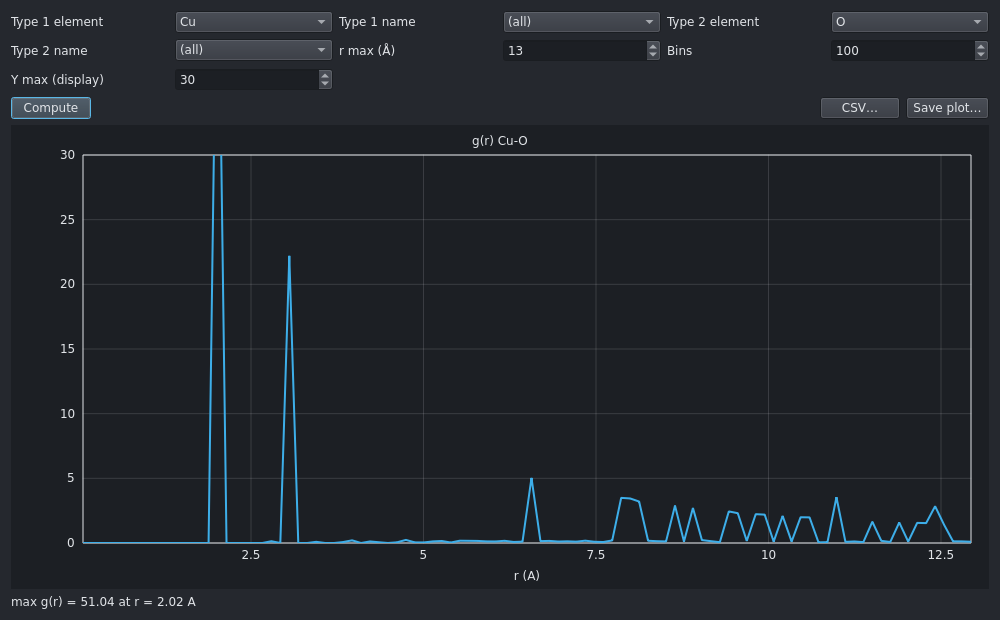
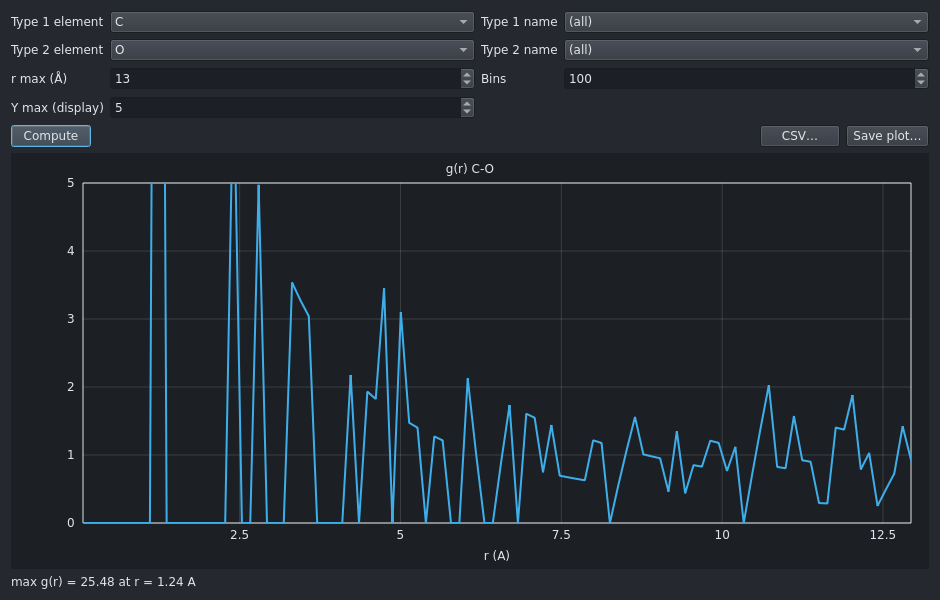
Make the test suite pass on CI: Python 3.9 and slow runners; update the README
CI failed on the first push to GitHub.

- Five tests used zip(strict=True), which needs Python 3.10; the matrix includes 3.9.
  They now check the lengths explicitly.
- The new end-to-end tests waited a fixed number of polls and clicked dialogs as soon as
  they appeared. On a loaded machine a dialog was still being laid out, the click was
  lost and the wait ran out (reproduced by pinning the suite to four cores). Waits are
  now wall-clock deadlines, screens are waited on until mounted, and closing a report
  retries the click. The suite passes pinned to two cores with eight workers.
- README: CRYSTAL23 and Find Symmetry, Check Structure and the other guard rails, the
  classic menu's appended options, the optional extras, redo and dihedral measuring, and
  current screenshots. The supported Python versions and the CI workflow are unchanged.

diff --git a/tests/test_workflows_e2e.py b/tests/test_workflows_e2e.py
@@ -15,6 +15,7 @@ from __future__ import annotations
 import asyncio
 import shutil
 import subprocess
+import time
 from pathlib import Path
 from types import SimpleNamespace
 from unittest import mock
@@ -136,16 +137,27 @@ def classic_form(engine: str, outdir, **changed) -> list:
 # ---- terminal viewer driver ---------------------------------------------------------------
 
 
-async def wait_for(pilot, cond, what, tries=400):
-    for _ in range(tries):
+WAIT_SECONDS = 180  # generous: shared CI runners are several times slower than a desktop
+
+
+async def wait_for(pilot, cond, what, seconds=WAIT_SECONDS):
+    """Poll ``cond`` until it holds. The limit is wall-clock time, not a number of polls,
+    so a slow machine gets the same chance as a fast one."""
+    deadline = time.monotonic() + seconds
+    while time.monotonic() < deadline:
         await pilot.pause(0.05)
         if cond():
             return
-    raise AssertionError(f"timed out waiting for {what}")
+    raise AssertionError(f"timed out after {seconds} s waiting for {what}")
 
 
 async def on_screen(pilot, app, cls):
-    await wait_for(pilot, lambda: isinstance(app.screen, cls), cls.__name__)
+    """The screen of type ``cls`` once it is on top and has finished mounting, so that a
+    click sent next lands on a laid-out widget."""
+    await wait_for(pilot, lambda: isinstance(app.screen, cls) and app.screen.is_mounted,
+                   cls.__name__)
+    await pilot.pause()
+    await pilot.pause()
     return app.screen
 
 
@@ -157,9 +169,21 @@ async def read_info(pilot, app) -> str:
     """The text of the report on screen, then OK."""
     modal = await on_screen(pilot, app, InfoModal)
     text = modal.query_one("#info-text", TextArea).text
-    await pilot.click("#info-ok")
-    await wait_for(pilot, lambda: not isinstance(app.screen, InfoModal), "report to close")
+    await close_screen(pilot, app, modal, "#info-ok")
     return text
+
+
+async def close_screen(pilot, app, screen, button: str) -> None:
+    """Click ``button`` until ``screen`` is gone. A click sent while the screen is still
+    being laid out can be lost on a loaded machine, so it is repeated."""
+    deadline = time.monotonic() + WAIT_SECONDS
+    while app.screen is screen and time.monotonic() < deadline:
+        await pilot.click(button)
+        for _ in range(20):
+            await pilot.pause(0.05)
+            if app.screen is not screen:
+                return
+    assert app.screen is not screen, f"{type(screen).__name__} did not close"
 
 
 async def save_as(pilot, app, path) -> None:

diff --git a/tests/test_insert_sorbates.py b/tests/test_insert_sorbates.py
@@ -116,7 +116,7 @@ def test_seed_is_reproducible():
     mol = framework(pw.PBC(20, 20, 20, 90, 90, 90))
     a = pw.insert_sorbates(mol, "h2o_dc97", 5, seed=7)
     b = pw.insert_sorbates(mol, "h2o_dc97", 5, seed=7)
-    assert all(np.allclose(x, y) for x, y in zip(a, b, strict=True))
+    assert len(a) == len(b) and all(np.allclose(x, y) for x, y in zip(a, b))
 
 
 def test_requires_cell():
@@ -309,7 +309,7 @@ def test_model_name_and_object_are_equivalent():
     mol = framework(pw.PBC(20, 20, 20, 90, 90, 90))
     a = pw.insert_sorbates(mol, "h2o_dc97", 4, seed=28)
     b = pw.insert_sorbates(mol, pw.SORBATE_MODELS["h2o_dc97"], 4, seed=28)
-    assert all(np.allclose(x, y) for x, y in zip(a, b, strict=True))
+    assert len(a) == len(b) and all(np.allclose(x, y) for x, y in zip(a, b))
 
 
 def test_input_molecule_is_not_modified():
@@ -317,7 +317,8 @@ def test_input_molecule_is_not_modified():
     before = [a.x.copy() for a in mol.atoms]
     pw.insert_sorbates(mol, "h2o_dc97", 5, seed=29)
     assert len(mol.atoms) == len(before)
-    assert all(np.array_equal(a.x, b) for a, b in zip(mol.atoms, before, strict=True))
+    assert len(mol.atoms) == len(before)
+    assert all(np.array_equal(a.x, b) for a, b in zip(mol.atoms, before))
 
 
 def test_centers_are_uniform_in_an_empty_cell():
@@ -381,7 +382,7 @@ def test_template_packs_like_the_built_in_model(tmp_path):
     mol = framework(pw.PBC(20, 20, 20, 90, 90, 90))
     a = pw.insert_sorbates(mol, t, 4, seed=33)
     b = pw.insert_sorbates(mol, model, 4, seed=33)
-    assert all(np.allclose(x, y, atol=1e-5) for x, y in zip(a, b, strict=True))
+    assert len(a) == len(b) and all(np.allclose(x, y, atol=1e-5) for x, y in zip(a, b))
 
 
 # ---- formatting and the MPMC file -----------------------------------------------------

diff --git a/tests/test_crystal.py b/tests/test_crystal.py
@@ -13,6 +13,7 @@ from __future__ import annotations
 
 import asyncio
 import io
+import time
 from pathlib import Path
 from types import SimpleNamespace
 from unittest import mock
@@ -494,7 +495,8 @@ def test_all_three_front_ends_write_the_same_input(tmp_path, request):
             await pilot.pause()
 
             async def wait(cond):
-                for _ in range(200):
+                deadline = time.monotonic() + 180  # wall-clock: CI runners are slow
+                while time.monotonic() < deadline:
                     await pilot.pause(0.05)
                     if cond():
                         return
@@ -503,8 +505,9 @@ def test_all_three_front_ends_write_the_same_input(tmp_path, request):
             app.on_operations_panel_run_command(SimpleNamespace(command="symmetry"))
             await wait(lambda: isinstance(app.screen, InfoModal))
             shown = app.screen.query_one("#info-text", TextArea).text
-            await pilot.click("#info-ok")
-            await wait(lambda: not isinstance(app.screen, InfoModal))
+            while isinstance(app.screen, InfoModal):  # a click can be lost under load
+                await pilot.click("#info-ok")
+                await pilot.pause(0.2)
             for answer in ("231", "225"):
                 app.on_operations_panel_run_command(SimpleNamespace(command="write_crystal"))
                 await wait(lambda: isinstance(app.screen, InputModal))

diff --git a/tests/test_mpmc_roundtrip.py b/tests/test_mpmc_roundtrip.py
@@ -224,7 +224,8 @@ def test_writer_does_not_modify_its_input():
     written_records(mol)
     after = [(a.name, a.x.copy(), a.mpmc_flag, a.mpmc_mol) for a in mol.atoms]
     assert len(before) == len(after)
-    for b, a in zip(before, after, strict=True):
+    assert len(before) == len(after)
+    for b, a in zip(before, after):
         assert b[0] == a[0] and np.array_equal(b[1], a[1]) and b[2:] == a[2:]
 
 

diff --git a/README.md b/README.md
@@ -1,20 +1,28 @@
 # PDB Wizard
 
+[![tests](https://github.com/space-group-research/pdb_wizard/actions/workflows/tests.yml/badge.svg)](https://github.com/space-group-research/pdb_wizard/actions/workflows/tests.yml)
+
 Structure handling for porous-materials simulations: read, clean up, extend and inspect
 crystal structures, assign force fields and charges, pack sorbate molecules, and write
-inputs for MPMC, CP2K, OpenMM and LAMMPS. It runs as an interactive 3D terminal viewer,
-a classic text menu, or a batch command-line tool.
+inputs for MPMC, CP2K, CRYSTAL23, OpenMM and LAMMPS. It runs as a desktop window, an
+interactive 3D terminal viewer, a classic text menu, or a batch command-line tool. The three
+interactive front ends have the same features and give the same numbers.
 
 Developed in the [Space group](https://drbrian.space) at NC State University.
 
 ## Install
 
 ```bash
-pip install "pdb-wizard[viewer] @ git+https://github.com/space-group-research/pdb_wizard"
+pip install "pdb-wizard[viewer,gui,symmetry] @ git+https://github.com/space-group-research/pdb_wizard"
 ```
 
-`[viewer]` adds [textual](https://textual.textualize.io) for the terminal viewer. Without it,
-everything except the viewer works (the batch tools and `--classic` menu run on Python 3.7+).
+Python 3.9 or newer. The only required dependency is NumPy; the extras are optional:
+
+| Extra | Adds | Without it |
+|---|---|---|
+| `viewer` | [textual](https://textual.textualize.io) and Pillow: the terminal viewer | `pdb_wizard file` falls back to the classic menu |
+| `gui` | PySide6 and Pillow: the desktop window (`--gui`) | `--gui` prints how to install it |
+| `symmetry` | [spglib](https://spglib.readthedocs.io): Find Symmetry and symmetry-reduced CRYSTAL23 inputs | CRYSTAL23 inputs are written in P1 |
 
 A single-file version, `pdb_wizard.py`, needs only NumPy. Build it with `python build.py`
 (written to `dist/`); the group ships it in
@@ -32,13 +40,64 @@ pdb_wizard --help                   # all batch options (--rdf, --msd, --surface
 ```
 
 Reads PDB (standard, pdb2pqr and MPMC dialects), CIF, XYZ, POSCAR, LAMMPS data, SDF, MOL2,
-Gaussian, Z-matrix, DCD and multi-frame PDB/XYZ trajectories.
+Gaussian, Z-matrix, CRYSTAL output (`.out`), DCD and multi-frame PDB/XYZ trajectories. Writes
+XYZ, PDB, MPMC, CIF, POSCAR, LAMMPS data and CRYSTAL23 `.d12`.
+
+### Before you simulate: Check Structure
+
+*Analysis > Check Structure* (classic menu: 11, then 15) looks for the mistakes that give a
+wrong simulation without an error message. It never changes the structure.
+
+- A CIF that names a space group but lists no symmetry operators is read as P1, so you only
+  have the asymmetric unit. Partially occupied and disordered sites are all kept as full
+  atoms. Both are reported when the file is opened and again in the check.
+- Atoms closer than 0.7 Å, no hydrogens on an organic framework, unknown elements.
+- No charges, a net charge, or elements the force field has no parameters for.
+- A cell too small for a 10 Å cutoff, with the supercell that fixes it.
+- Open-shell metals (the generated CP2K input is closed-shell: add `UKS` and a
+  `MULTIPLICITY`).
+- A Monte Carlo trajectory: MSD and RMSD on one are not physical, and say so.
+
+Other guard rails: *Delete Lone Atoms* shows what it would remove and warns when that
+includes framework metals (it finds all 48 Cu in HKUST-1, because metal-ligand bonds are
+longer than its contact test); the isotherm plot also lists MPMC's own N, wt% and Qst with
+error bars from the run logs and names runs that have not finished; the OpenMM generator
+warns that the stock Amber force fields have no templates for a framework.
+
+QEq charges are a quick estimate. In test runs on HKUST-1 they were about half the size of
+DFT-derived charges, which is too weak for polar sorbates such as CO2. Use fitted charges
+(for example CP2K RESP, which can be loaded directly from the `.resp` file) for production
+work.
+
+### CRYSTAL23
+
+*Save as CRYSTAL23 .d12* (classic menu: 13, then 7) writes a complete cell-optimisation
+input from the group's template (HSE06/POB-TZVP-REV2). You are asked for a space group:
+
+- `1` writes every atom in P1. Always valid, and the most expensive way to run CRYSTAL.
+- A number from *Analysis > Find Symmetry* writes only that group's asymmetric unit in the
+  conventional cell. HKUST-1 goes from 624 atoms to 6 in Fm-3m (225).
+
+*Find Symmetry* searches at a ladder of tolerances and lists each space group with the
+tolerance that finds it and how far atoms have to move to fit it exactly, so an approximate
+symmetry is not mistaken for a real one. The geometry block follows the CRYSTAL manual
+(minimal cell parameters per crystal system, hexagonal axes for rhombohedral groups, unique
+axis b, and the origin flag set for groups with two origin settings). It has been checked
+against the manual's examples but not yet against a CRYSTAL run: try one small job first.
+A CRYSTAL `.out` opens as the final geometry in the primitive cell.
+
+### Classic menu
+
+`--classic` keeps the original numbered menu, and the original numbers never change (main
+menu 1-10, geometry menu 1-9), so input scripts written for the old `pdb_wizard.py` still
+work. Everything newer is appended: 11 analysis, 12 edit, 13 other formats and pictures,
+14 simulation inputs, 15 isotherm results, 16 database, 17 undo, 18 open another file.
 
 ### Desktop window
 
-![PDB Wizard's desktop window: HKUST-1 with packed DC97 water](docs/gui.png)
+![PDB Wizard's desktop window showing HKUST-1](docs/gui.png)
 
-![An analysis window: the Cu–O radial distribution in HKUST-1](docs/gui-analysis.png)
+![An analysis window: a radial distribution function in HKUST-1](docs/gui-analysis.png)
 
 `pdb_wizard --gui` has everything the terminal viewer has, in windows and menus:
 
@@ -47,11 +106,12 @@ Gaussian, Z-matrix, DCD and multi-frame PDB/XYZ trajectories.
   perspective or orthographic, dark or light background, lighting and size sliders. Drag to
   rotate, right-drag to pan, wheel to zoom; the terminal viewer's keys work too (`v`, `C`,
   `#`, `w`, `P`, `O`, `m`, `t`, `c`, `r`, `,`/`.`).
-- **Measure**: in measure mode two clicks pin a distance; shift-click two or three atoms
-  for a distance or angle.
+- **Measure**: in measure mode two clicks pin a distance; shift-click two, three or four
+  atoms for a distance, angle or dihedral. *Help > Keyboard and mouse* (F1) lists every
+  control.
 - **Tabs and trajectories**: each file opens in a tab; multi-frame PDB/XYZ and DCD files
   get a frame slider with play, speed and "open frame in new tab".
-- **Edit** (with undo): wrap, sort, supercells and reducing them back (choosing which
+- **Edit** (with undo and redo): wrap, sort, supercells and reducing them back (choosing which
   sorbates to keep), delete lone atoms, set X–H distances, update or remove the cell,
   substitute elements, edit coordinates, QEq or file charges, force fields, and sorbate
   packing.
@@ -87,9 +147,12 @@ starting μVT from it.
 ## Tests
 
 ```bash
-pip install -e ".[viewer,test]" pytest-asyncio pytest-xdist hypothesis python-minifier
-pytest -n auto
+pip install -e ".[viewer,gui,symmetry,test]"
+QT_QPA_PLATFORM=offscreen pytest -n auto
 ```
+
+GitHub Actions runs this on Python 3.9 and 3.12 for every push and pull request, and
+checks that the single-file build runs with NumPy alone.
 
 Optional suites:
 
@@ -103,7 +166,10 @@ The test run builds `dist/pdb_wizard.py` first, so the single-file version is te
 desktop-window tests run headless (`QT_QPA_PLATFORM=offscreen`) and skip without PySide6 and
 pytest-qt. `tests/test_gui_parity.py` runs every analysis in both the desktop window and the
 terminal viewer and requires identical results, and fails if a terminal-viewer operation has
-no desktop counterpart.
+no desktop counterpart; `tests/test_classic_parity.py` does the same for the classic menu.
+`tests/test_workflows_e2e.py` runs whole workflows (CIF to an MPMC framework, an isotherm set
+up, run and plotted, CP2K and OpenMM inputs) through all three front ends and compares the
+files they write.
 
 ## License
 
